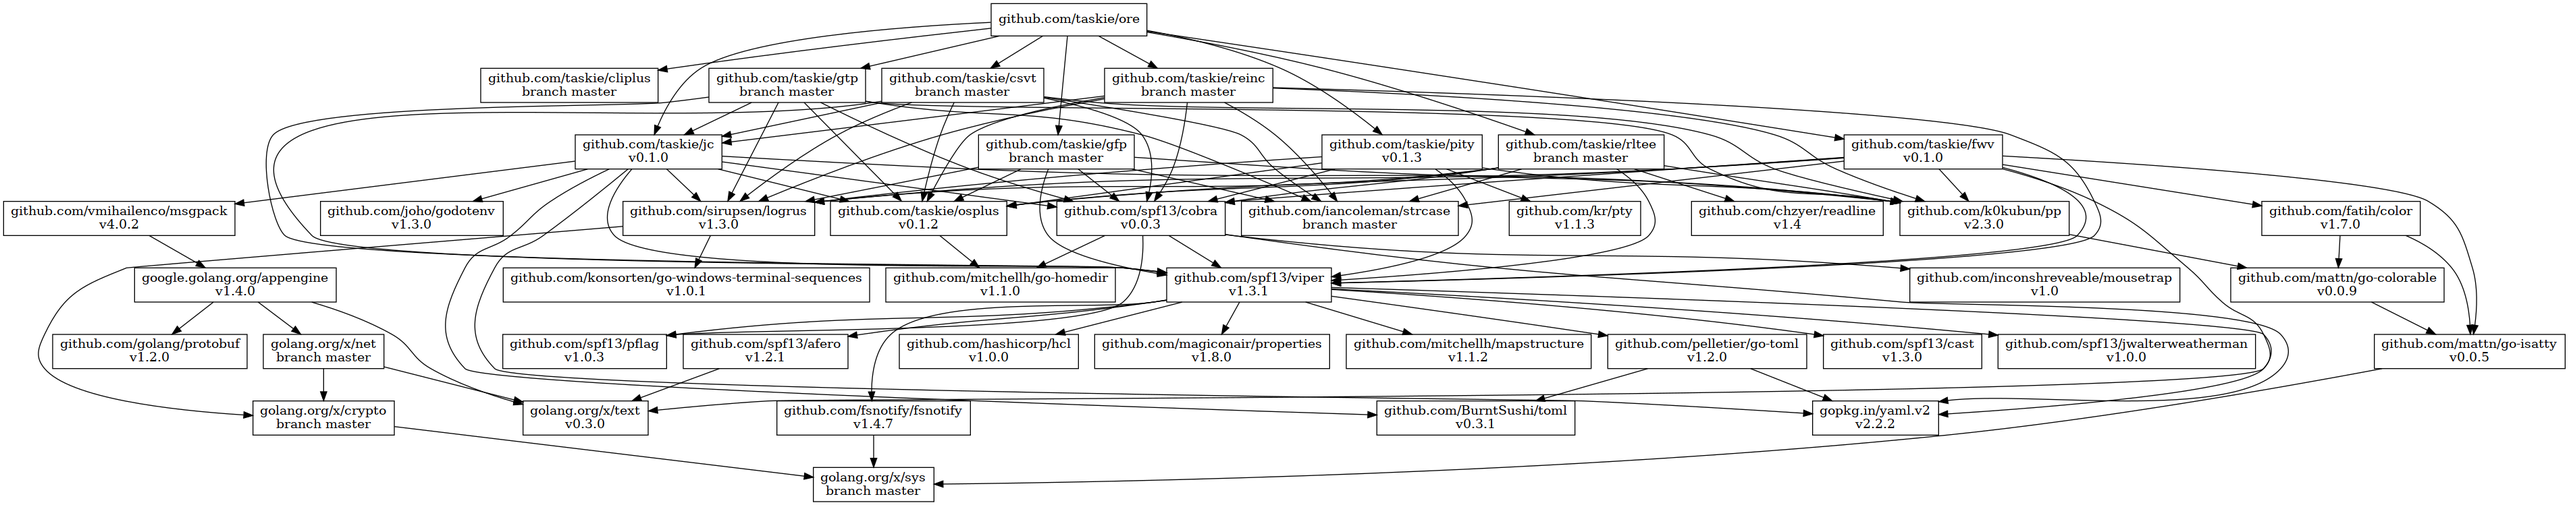
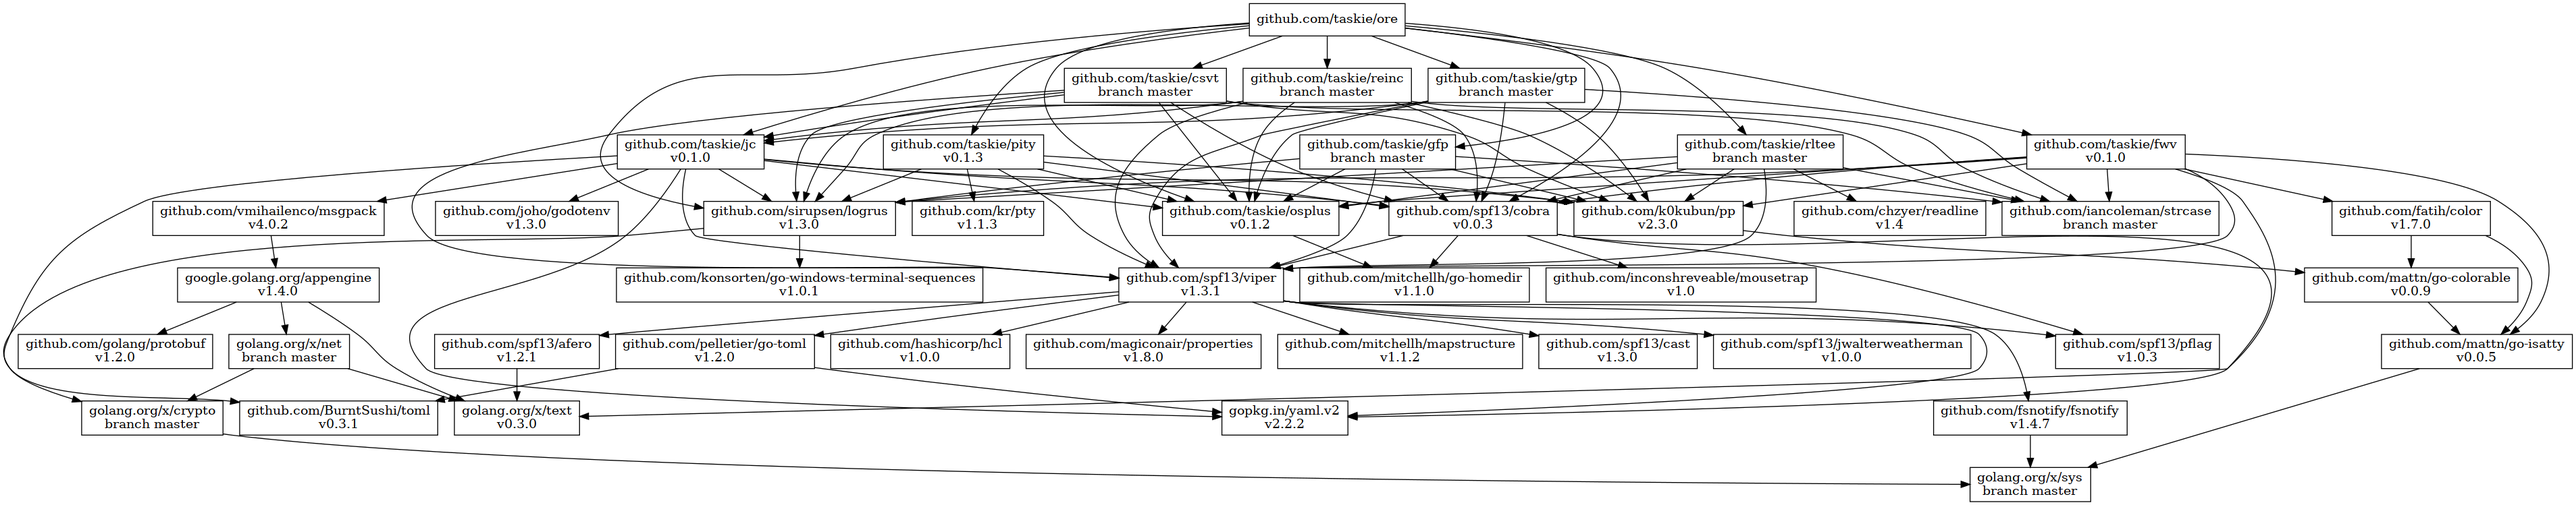
use cobra & viper

diff --git a/main.go b/main.go
@@ -1,11 +1,20 @@
 package main
 
 import (
-	"fmt"
-	"sort"
-	"strings"
+	"os"
+	"path/filepath"
 
-	"github.com/taskie/cliplus"
+	log "github.com/sirupsen/logrus"
+	"github.com/spf13/cobra"
+	"github.com/taskie/csvt/cli/csvt"
+	"github.com/taskie/fwv/cli/fwv"
+	"github.com/taskie/gfp/cli/gfp"
+	"github.com/taskie/gtp/cli/gtp"
+	"github.com/taskie/jc/cli/jc"
+	"github.com/taskie/osplus"
+	"github.com/taskie/pity/cli/pity"
+	"github.com/taskie/reinc/cli/reinc"
+	"github.com/taskie/rltee/cli/rltee"
 )
 
 var (
@@ -13,34 +22,96 @@ var (
 	revision string
 )
 
-func main() {
-	cmd := cliplus.NewBusyCmd("ore", cliplus.NewMapMainResolver(getCommands()))
-	cmd.Main()
+const (
+	CommandName = "ore"
+)
+
+var Command = &cobra.Command{
+	Use: CommandName,
 }
 
-func list() {
-	names := make([]string, 0, 0)
-	for name := range getCommands() {
-		if !strings.HasPrefix(name, "-") {
-			names = append(names, name)
+func init() {
+	Command.AddCommand(jc.Command)
+	Command.AddCommand(gtp.Command)
+	Command.AddCommand(csvt.Command)
+	Command.AddCommand(fwv.Command)
+	Command.AddCommand(reinc.Command)
+	Command.AddCommand(pity.Command)
+	Command.AddCommand(rltee.Command)
+	Command.AddCommand(gfp.Command)
+
+	cmdNames := make([]string, 0)
+	for _, cmd := range Command.Commands() {
+		cmdNames = append(cmdNames, cmd.Name())
+	}
+
+	Command.AddCommand(&cobra.Command{
+		Use: "link",
+		Run: func(cmd *cobra.Command, args []string) {
+			gopath, err := osplus.GetGoPath()
+			if err != nil {
+				log.Fatal(err)
+			}
+			for _, cmdName := range cmdNames {
+				dst := filepath.Join(gopath, "bin", cmdName)
+				abs, err := filepath.Abs(os.Args[0])
+				if err != nil {
+					log.Warn(err)
+					continue
+				}
+				err = os.Symlink(abs, dst)
+				if err != nil {
+					log.Warn(err)
+				}
+			}
+		},
+	})
+	Command.AddCommand(&cobra.Command{
+		Use: "unlink",
+		Run: func(cmd *cobra.Command, args []string) {
+			gopath, err := osplus.GetGoPath()
+			if err != nil {
+				log.Fatal(err)
+			}
+			for _, cmdName := range cmdNames {
+				dst := filepath.Join(gopath, "bin", cmdName)
+				err = os.Remove(dst)
+				if err != nil {
+					log.Warn(err)
+				}
+			}
+		},
+	})
+	Command.AddCommand(&cobra.Command{
+		Use: "bash",
+		Run: func(cmd *cobra.Command, args []string) {
+			Command.GenBashCompletion(os.Stdout)
+		},
+	})
+	Command.AddCommand(&cobra.Command{
+		Use: "zsh",
+		Run: func(cmd *cobra.Command, args []string) {
+			Command.GenZshCompletion(os.Stdout)
+		},
+	})
+}
+
+func main() {
+	base := filepath.Base(os.Args[0])
+	if base == CommandName {
+		err := Command.Execute()
+		if err != nil {
+			log.Fatal(err)
+		}
+	} else {
+		cmd, ss, err := Command.Find(append([]string{base}, os.Args[1:]...))
+		if err != nil {
+			log.Fatal(err)
+		}
+		os.Args = append([]string{CommandName, base}, ss...)
+		err = cmd.Execute()
+		if err != nil {
+			log.Fatal(err)
 		}
 	}
-	sort.Strings(names)
-	for _, name := range names {
-		fmt.Println(name)
-	}
-}
-
-func showVersion() {
-	fmt.Println(version)
-}
-
-const usage = `ore - my own toolchain
-usage: ore COMMAND ARGS...
-       ore list
-detail: https://github.com/taskie/ore
-`
-
-func help() {
-	fmt.Print(usage)
 }
